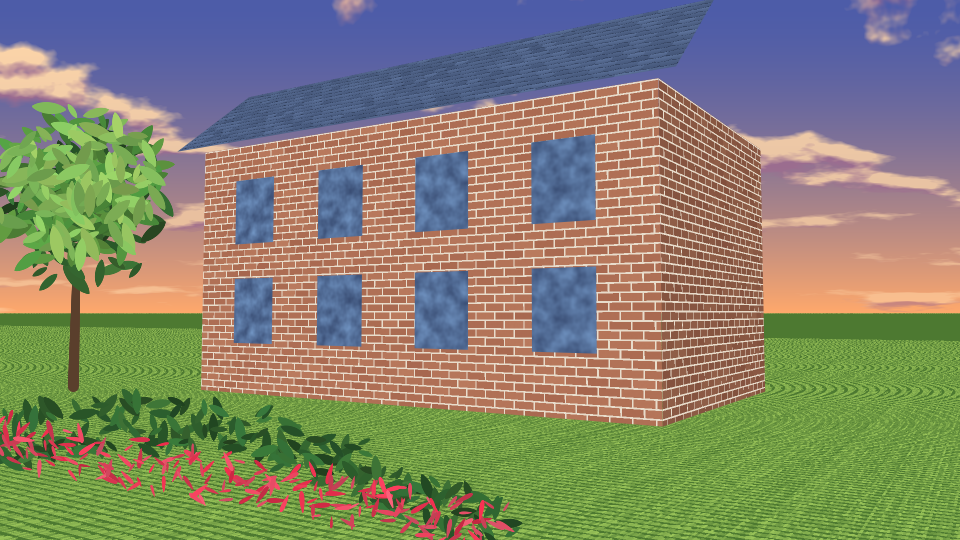
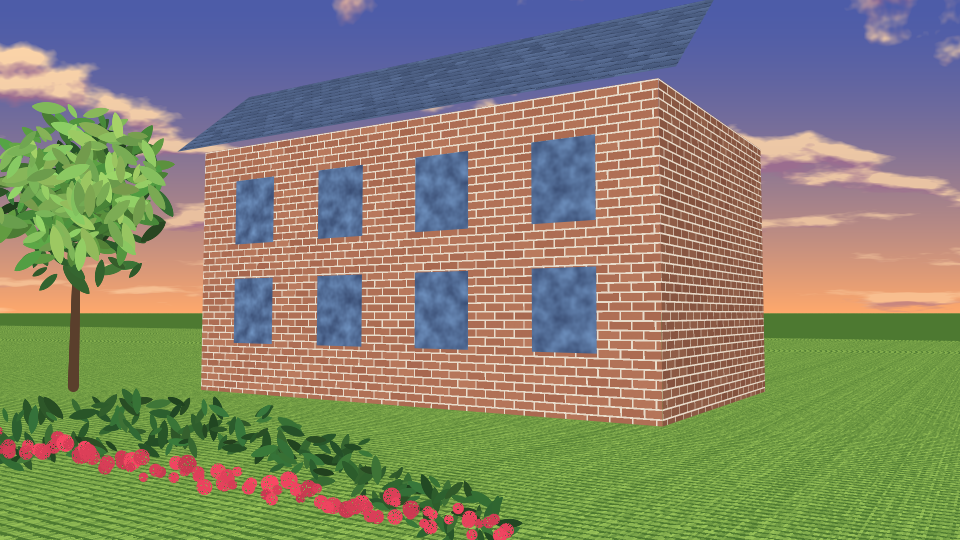
S11: amostragem adaptativa contra moiré no padrão em perspectiva; ponta e preset de rosas

diff --git a/app/crates/aiai-tools/src/background.rs b/app/crates/aiai-tools/src/background.rs
@@ -7,6 +7,7 @@ use aiai_paint::blend::blend_pixel;
 use aiai_paint::select::{SelectShape, Selection};
 use aiai_paint::texture::{SkySpec, TextureParams};
 use aiai_paint::warp::Homography;
+use rayon::prelude::*;
 use schemars::JsonSchema;
 use serde::{Deserialize, Serialize};
 
@@ -118,25 +119,55 @@ pub fn pattern_fill_command(p: &Project, blobs: &mut BlobStore, req: &PatternFil
             }
         }
     };
-    let ss = [(0.25, 0.25), (0.75, 0.25), (0.25, 0.75), (0.75, 0.75)];
-    for y in bounds[1]..bounds[3] {
-        for x in bounds[0]..bounds[2] {
-            let i = (y as u32 * w + x as u32) as usize;
-            let cov = sel.cov[i];
-            if cov <= 0.0 {
-                continue;
+    // Amostragem adaptativa: quantos texels um pixel cobre (derivada do mapeamento) → n×n amostras (2..8).
+    // Evita moiré do padrão ao longe sem custo onde o padrão é grande.
+    let tex_uv = |x: f32, y: f32| -> (f32, f32) {
+        match &map {
+            Map::Flat { inv_s, cos, sin, off } => {
+                let (dx, dy) = (x - off[0], y - off[1]);
+                ((dx * cos - dy * sin) * inv_s, (dx * sin + dy * cos) * inv_s)
             }
-            // supersampling 2×2 contra serrilhado do padrão ao longe
-            let mut acc = [0.0f32; 4];
-            for (ox, oy) in ss {
-                let c = tex_at(x as f32 + ox, y as f32 + oy);
-                acc[0] += c[0] * c[3];
-                acc[1] += c[1] * c[3];
-                acc[2] += c[2] * c[3];
-                acc[3] += c[3];
+            Map::Persp { inv, size } => {
+                let (u, v) = inv.apply(x, y);
+                (u * size[0], v * size[1])
             }
-            let src = [acc[0] / 4.0, acc[1] / 4.0, acc[2] / 4.0, acc[3] / 4.0];
-            blend_pixel(&mut img.data[i], src, req.blend, req.opacity * cov);
+        }
+    };
+    let rows: Vec<(i32, Vec<(usize, [f32; 4])>)> = (bounds[1]..bounds[3])
+        .collect::<Vec<_>>()
+        .into_par_iter()
+        .map(|y| {
+            let mut out = Vec::new();
+            for x in bounds[0]..bounds[2] {
+                let i = (y as u32 * w + x as u32) as usize;
+                if sel.cov[i] <= 0.0 {
+                    continue;
+                }
+                let (cx, cy) = (x as f32 + 0.5, y as f32 + 0.5);
+                let (u0, v0) = tex_uv(cx, cy);
+                let (u1, v1) = tex_uv(cx + 1.0, cy);
+                let (u2, v2) = tex_uv(cx, cy + 1.0);
+                let foot = ((u1 - u0).hypot(v1 - v0)).max((u2 - u0).hypot(v2 - v0));
+                let n = (foot / 1.5).ceil().clamp(2.0, 8.0) as usize;
+                let mut acc = [0.0f32; 4];
+                for sy in 0..n {
+                    for sx in 0..n {
+                        let c = tex_at(x as f32 + (sx as f32 + 0.5) / n as f32, y as f32 + (sy as f32 + 0.5) / n as f32);
+                        acc[0] += c[0] * c[3];
+                        acc[1] += c[1] * c[3];
+                        acc[2] += c[2] * c[3];
+                        acc[3] += c[3];
+                    }
+                }
+                let k = 1.0 / (n * n) as f32;
+                out.push((i, [acc[0] * k, acc[1] * k, acc[2] * k, acc[3] * k]));
+            }
+            (y, out)
+        })
+        .collect();
+    for (_, row) in rows {
+        for (i, src) in row {
+            blend_pixel(&mut img.data[i], src, req.blend, req.opacity * sel.cov[i]);
         }
     }
     Ok(Command::SetTiles { cel: node.id.clone(), tiles: tiles_for_region(blobs, &img, bounds) })

diff --git a/app/crates/aiai-paint/src/brush.rs b/app/crates/aiai-paint/src/brush.rs
@@ -45,6 +45,8 @@ pub enum TipShape {
     CloudPuff,
     Star,
     Square,
+    /// Rosa em botão: disco com espiral de pétalas (vãos deixam ver o fundo escuro).
+    Rose,
 }
 
 /// Cobertura 0..1 de uma forma em coordenadas locais normalizadas (u, v ∈ [-1, 1]; v = -1 é a "ponta" superior).
@@ -82,6 +84,17 @@ fn shape_alpha(shape: TipShape, u: f32, v: f32, aa: f32) -> f32 {
             edge(r - rad)
         }
         TipShape::Square => edge(u.abs().max(v.abs()) - 0.9),
+        TipShape::Rose => {
+            let r = (u * u + v * v).sqrt();
+            if r > 1.0 { return 0.0 }
+            let th = v.atan2(u);
+            // espiral logarítmica de pétalas: vão fino onde sin(θ + k·ln r) ≈ 0
+            let phase = th + 9.0 * (r.max(0.05)).ln();
+            let gap = (phase * 1.5).sin().abs();
+            let outer = edge(r - 0.92);
+            let inner = ((gap - 0.12) / 0.1).clamp(0.0, 1.0);
+            outer * if r < 0.12 { 1.0 } else { inner.max(0.15) }
+        }
     }
 }
 
@@ -343,6 +356,15 @@ impl BrushPreset {
         grass.angle_jitter = 12.0;
         grass.value_jitter = 0.15;
         v.push(grass);
+        let mut rose = BrushPreset::round("Rosas", 18.0, 1.0);
+        rose.tip = BrushTip::Shape { shape: TipShape::Rose, aspect: 1.0 };
+        rose.spacing = 0.9;
+        rose.scatter = 0.8;
+        rose.count = 2;
+        rose.size_jitter = 0.35;
+        rose.angle_jitter = 180.0;
+        rose.value_jitter = 0.1;
+        v.push(rose);
         let mut petals = BrushPreset::round("Flores/pétalas", 14.0, 1.0);
         petals.tip = BrushTip::Shape { shape: TipShape::Petal, aspect: 0.8 };
         petals.spacing = 0.5;

diff --git a/app/crates/aiai-tools/tests/background.rs b/app/crates/aiai-tools/tests/background.rs
@@ -148,8 +148,8 @@ fn exterior_background_painted_with_tools() {
     };
     let c = paint_command(&s.project, &mut s.blobs, &r).unwrap();
     apply(&mut s, c);
-    let mut roses = get("Flores/pétalas");
-    roses.size = 16.0;
+    let mut roses = get("Rosas");
+    roses.size = 15.0;
     let r = PaintRequest {
         cut: cut.clone(), frame: 0, layer: book_l.clone(), preset: roses, color: ColorRef::Direct { rgba: Rgba::from_hex("#e0405a").unwrap() },
         strokes: vec![pts(&[[bl[0], bl[1] - 8.0, 1.0], [br[0], br[1] - 8.0, 1.0]])], seed: 22,

diff --git a/sprints/registro/LACUNAS.md b/sprints/registro/LACUNAS.md
@@ -4,9 +4,9 @@ Cada lacuna: nº · data · onde apareceu (sprint/corte/tentativa) · tipo (ferr
 
 | Nº | Data | Origem | Tipo | Descrição | Sprint | Estado |
 |---|---|---|---|---|---|---|
-| 1 | 2026-10-16 | S11 cenário externo | ferramenta fraca | Grama em perspectiva com moiré ao longe (supersampling 2×2 não basta) — precisa de filtragem por distância (LOD/mip da textura procedural) | S11 | aberta |
+| 1 | 2026-10-16 | S11 cenário externo | ferramenta fraca | Grama em perspectiva com moiré ao longe (supersampling 2×2 não basta) — precisa de filtragem por distância (LOD/mip da textura procedural) | S11 | resolvida (amostragem adaptativa pela área do pixel na textura, 2..8²) |
 | 2 | 2026-10-16 | S11 cenário externo | ergonomia agente | Mapear textura em perspectiva exige o agente calcular quadriláteros; oferecer modo "plano 3D + câmera" (usa a guia 3D direto, com recorte no plano próximo) | S11/S09 | aberta |
-| 3 | 2026-10-16 | S11 cenário externo | ferramenta fraca | Pincel "Flores/pétalas" parece confete; rosas pedem pincel de flor agrupada (pétalas em volta de um centro) | S11 | aberta |
+| 3 | 2026-10-16 | S11 cenário externo | ferramenta fraca | Pincel "Flores/pétalas" parece confete; rosas pedem pincel de flor agrupada (pétalas em volta de um centro) | S11 | resolvida (ponta "Rosa" em espiral + preset Rosas) |
 | 4 | 2026-10-16 | S06 estudo de céu | execução | Nuvens desenhadas como arcos finos; massas pedem preenchimento + pincel de nuvem (agora existe gerador de céu e ponta de nuvem) | S06/S11 | resolvida (gerador de céu + ponta de nuvem) |
 | 5 | 2026-10-16 | S09 guia 3D | bug | Remoção de linhas ocultas não funcionava (inicialização do máximo com +∞) e RDP apagava polilinhas de ida e volta | S09 | resolvida |
 | 6 | 2026-10-16 | S10 model sheet | ferramenta fraca | Manequim simétrico demais: 3/4 frente e 3/4 costas quase iguais; marcador de nariz ajudou; falta peito/omoplata e mãos com direção | S10 | aberta (parcial) |
